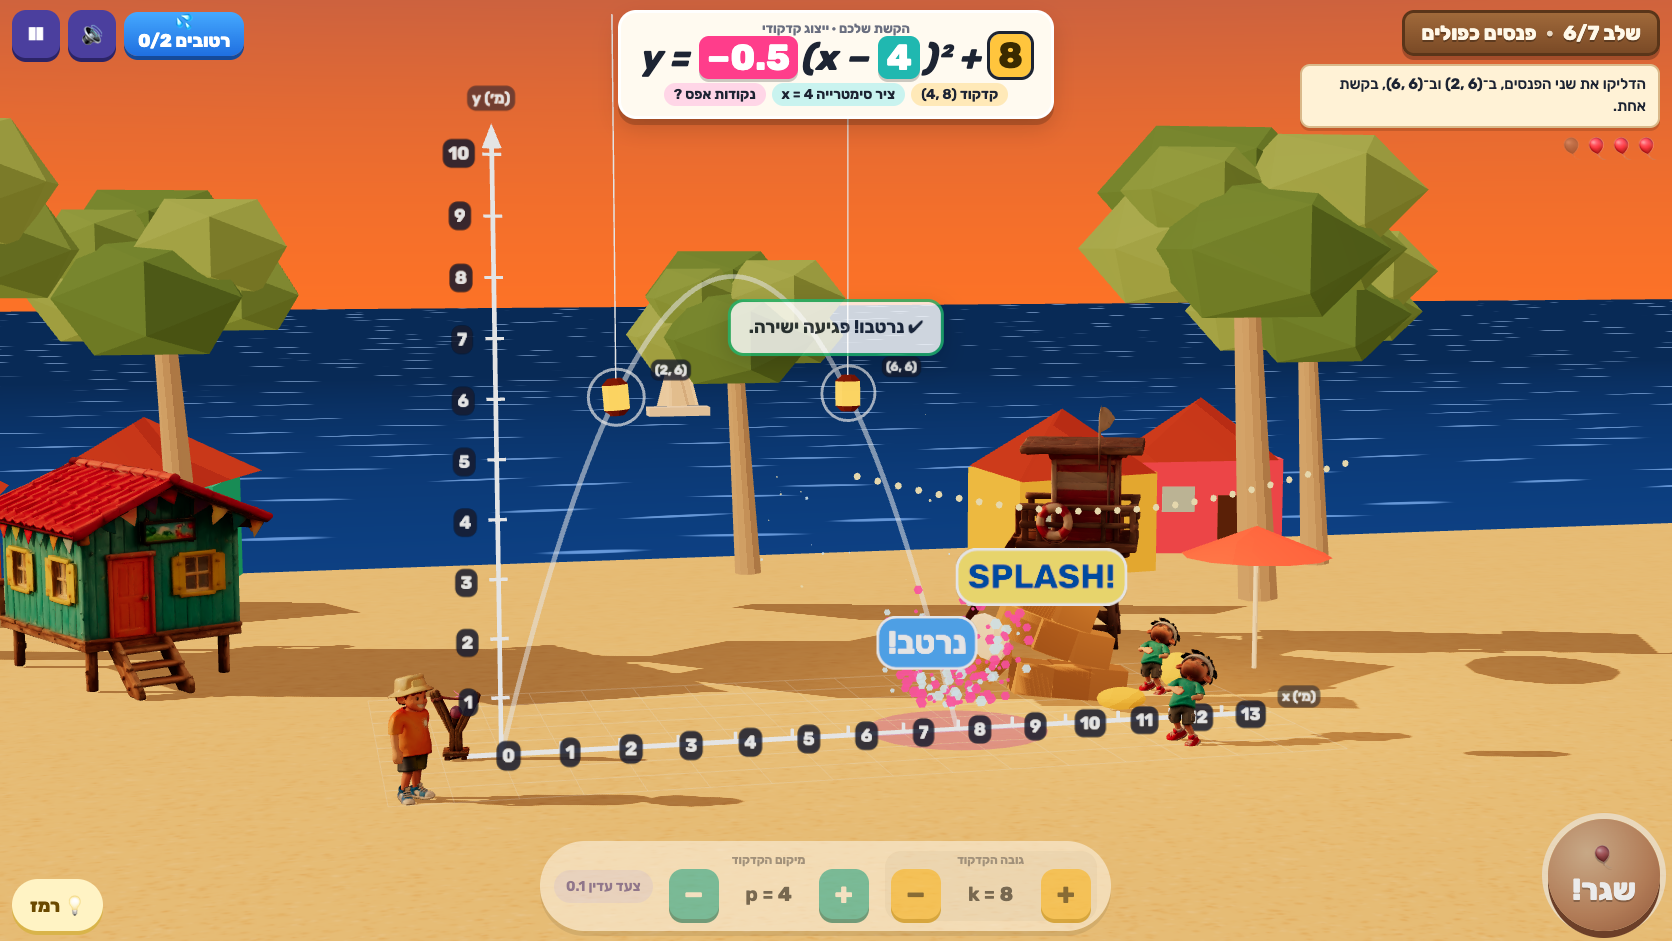
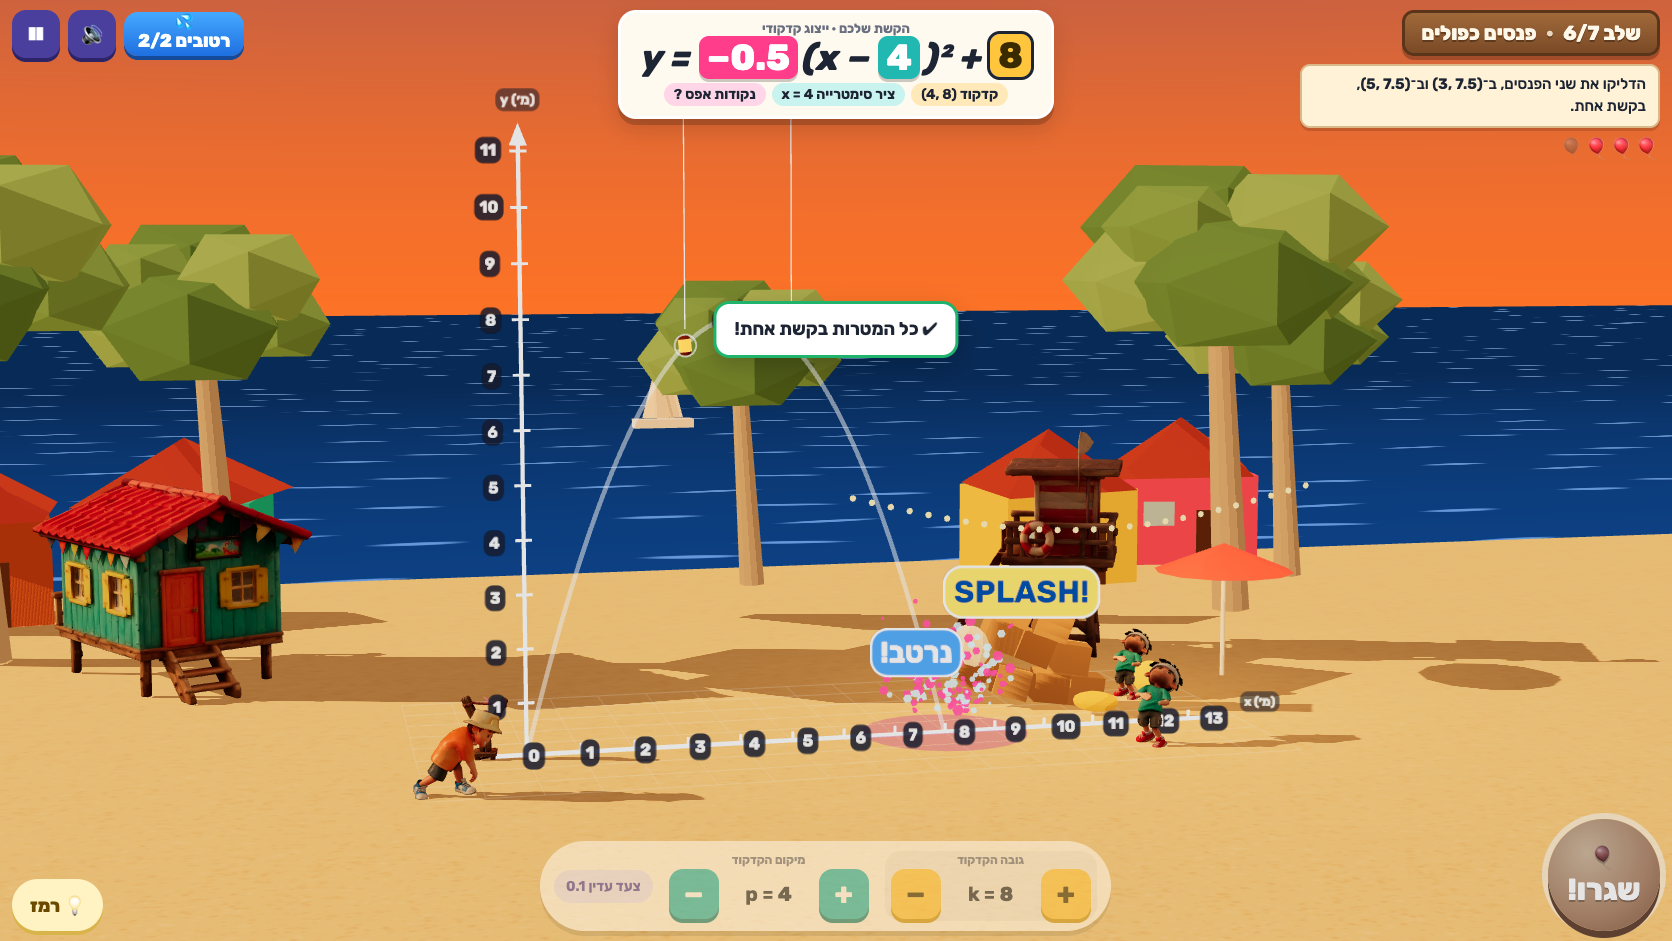
Playtest report, FPS probe, recaptured visuals, progress log; return-fire miss wording matches the landing

diff --git a/src/main.ts b/src/main.ts
@@ -326,7 +326,8 @@ function handle(ev: GameEvent): void {
     case 'soakedUs': {
       sfx.splash(true);
       sfx.laugh();
-      hero.play('soaked');
+      const close = Math.abs(ev.x - s.bucketX) <= 1.2;
+      hero.play(close ? 'soaked' : 'frustrated');
       rivals[0].play('laugh');
       const at = new THREE.Vector3(ev.x, 0.2, 0);
       fx.splash(at, '#3dd6ff', 110, 1);
@@ -335,7 +336,7 @@ function handle(ev: GameEvent): void {
       arcView.setRivalTrail(volleyPath());
       const v = level.volleys![s.volleyIndex];
       const eq = v.form === 'factored' ? formatFactoredForm(v.a, ...(zeros(volleyArc(v)) as [number, number])) : formatVertexForm(v);
-      hud.toast(`נרטבתם! {${eq}} נוחת ב־{x = ${fmt(ev.x)}}, והדלי היה ב־{x = ${fmt(s.bucketX)}}.`, 4.5, 'bad');
+      hud.toast(`${close ? 'נרטבתם!' : 'פספוס! החול שלנו נרטב.'} {${eq}} נוחת ב־{x = ${fmt(ev.x)}}, והדלי היה ב־{x = ${fmt(s.bucketX)}}. עכשיו זריקה חדשה.`, 4.5, 'bad');
       break;
     }
     case 'won':

diff --git a/PLAYTEST.md b/PLAYTEST.md
@@ -1,0 +1,32 @@
+# Playtest and verification — Splash Arc
+
+What was verified, how, and what wasn't. Automation proves the rules and flows work; it does not show that the game is fun or that students learn the quadratic function. That needs real students.
+
+## Automated tests (`npm test`, 27 passing)
+
+- **Arc math** (`tests/arc.test.ts`): `a = −k/p²` and landing `2p` from the origin; `a = (h − k)/p²` from a raised launcher; zeros symmetric about `x = p`; `a ≥ 0` never lands; a horizontal shift moves vertex and zeros together; Workbook-style formatting with real minus signs and school rounding.
+- **Every authored level** (`tests/levels.test.ts`): the exact set of winning vertices on the 0.5 m grid (L1 `p = 4, k ∈ {4.5, 5, 5.5}`; L2 `(5, 7)`; L3 `(2, 4)`; L5 only `p = 4.5`; L6 `(4, 8)`; L7 `(5, 9.5…13)`), the handoff's algebra (`y(2) = 0.75k`, `y(8) = 16k/25`, `y(3) = 21k/25`), fine-mode windows, and the advertised consequences (wall, net, branch, space, overshoot after the drift, "standing under the vertex" in return fire, the `(x + 1)` card).
+- **Eyeballing / constant strategies:** no single snapped vertex wins two authored levels; under 6 % of snapped vertices win any one level; neighbouring arcs pass visibly outside a lantern's hit radius; generated challenges always have 1–4 answers and "always k = 8" fails most of them.
+- **State machine** (`tests/game.test.ts`): snapping and clamping, miss → impact → aim with a balloon spent, first-try 3 stars at three different frame rates (timing independent of frame size), out of balloons → refill, hints mark attempts as hinted, pause freezes flight, the raft drift, return fire with a fresh volley after a miss, and restarts that don't erase misses or hints.
+
+## Real play
+
+- **Independent reviewer** (headless Playwright, real keys and a real mouse drag; logic stepped because the machine was overloaded): won every level, made recoverable mistakes on levels 1–6, used hints on 3 and 4, ran out of balloons on 7 and restarted. Findings and their fixes: [docs/MATH_REVIEW.md](docs/MATH_REVIEW.md).
+- **Crew lead in the built-in browser** at 1280×720: full win and wall splat on level 1, the return-fire miss and catch, the a > 0 and a = 0 messages on level 3, a lantern near-miss on level 6, hint bubble, title screen and level select, challenge mode. Phone portrait 375×812 and phone landscape 812×375 layouts checked by screenshot. Console clean once all models load.
+- **Visual captures** with real drags and keys at the mockups' framing: [docs/VISUAL_REVIEW.md](docs/VISUAL_REVIEW.md).
+- **Tripo models in gameplay:** camper and rival load with six clips each (throw, cheer, hit, jump, frustrated/laugh, idle) and play on game events; slingshot, lifeguard tower and cabin load as set pieces.
+
+## Performance (measured)
+
+- Headless Chrome, ANGLE Metal on an Apple M2 Max, 1280×720 at DPR 2, level 1: **60 fps** (vsync cap), ~212 draw calls, ~237k triangles (`scripts/fps.mjs`). Measured when the machine's load average was about 12.
+- Earlier, while other crews' browsers pushed the load average to 150–220, the browser pane ran at ~1.5 fps; that's the machine, not the game, but it means real-time feel was mostly judged through stepped captures.
+- Production build: `dist/` 8.3 MB; main JS 5.1 MB (1.9 MB gzipped), mostly Rapier's inlined WASM and Three.js; models 0.3–1.2 MB each.
+
+## Known limits
+
+- Not played by real students or on a real phone; touch was tested by emulation only.
+- No measured learning outcome. The learning log records first unaided attempts versus hinted ones, but nobody has analysed it.
+- Walls and nets are 3D panels turned about their exact x-line; they still look somewhat wider than the rule they represent.
+- Mobile portrait shows a small field; the title screen suggests rotating.
+- The bundle is large for a phone on a slow connection (Rapier WASM is inlined).
+- Not deployed; the public GitHub repo could not be created from this session (see progress.md).

diff --git a/docs/VISUAL_REVIEW.md b/docs/VISUAL_REVIEW.md
@@ -1,13 +1,13 @@
 # Visual review — mockups vs real gameplay
 
-Targets: ChatGPT gpt-image mockups in [`visual-targets/`](visual-targets/) (prompts in `PROMPTS.md`). They are design targets, not evidence. Actual: real gameplay captured by [`scripts/shots.mjs`](../scripts/shots.mjs) at the mockups' 1672×941 framing, in Chrome (headless, Playwright), with **real inputs**: mouse drags on the canvas to move the vertex handle and key presses (Space, arrows) to fire and move the bucket. The script only reads `render_game_to_text()` and projects a world point to find where the handle is on screen; it never injects a result. Captures are in [`captures/`](captures/) with the state log in `capture-log.json`.
+Targets: ChatGPT gpt-image mockups in [`visual-targets/`](visual-targets/) (prompts in `PROMPTS.md`). They are design targets, not evidence. Actual: real gameplay captured by [`scripts/shots.mjs`](../scripts/shots.mjs) at the mockups' 1672×941 framing, in Chrome (headless, Playwright), with **real inputs**: mouse drags on the canvas to move the vertex handle and key presses (Space, arrows) to fire and move the bucket. The script only reads `render_game_to_text()` and projects a world point to find where the handle is on screen; it never injects a result. Captures are in [`captures/`](captures/) with the state log in `capture-log.json`. Recaptured on 26 Oct after the math-review fixes.
 
 | Target | Actual | State at capture |
 |---|---|---|
 | ![](visual-targets/01-first-30s.png) | ![](captures/01-first-30s.png) | Level 1 after dragging the vertex from (4, 2) to (4, 5): `y = −0.31(x − 4)² + 5`, zeros 0 and 8 |
-| ![](visual-targets/02-impact.png) | ![](captures/02-impact.png) | Level 6, vertex (4, 8): both lanterns swiped, splash at x = 8, fort blocks flying |
+| ![](visual-targets/02-impact.png) | ![](captures/02-impact.png) | Level 6, vertex (4, 8): both lanterns at (3, 7.5) and (5, 7.5) lit, splash at x = 8, fort blocks flying, counter 2/2 |
 | ![](visual-targets/03-consequence.png) | ![](captures/03-consequence-wall.png) | Level 1 default arc splats on the wall at `y(2) = 1.5` |
-| (same target, return-fire half) | ![](captures/03b-return-fire.png) | Level 4, bucket at 4.5 while `y = −0.5(x − 4)² + 8` lands at 8: our camper is soaked |
+| (same target, return-fire half) | ![](captures/03b-return-fire.png) | Level 4, bucket at 4.5 while `y = −0.5(x − 4)² + 8` lands at 8: a miss with the real landing shown; a fresh volley follows |
 | ![](visual-targets/04-night-raid.png) | ![](captures/04-night-raid.png) | Level 7 aimed at (5, 11), no preview, no grid numbers |
 
 ## What matches
@@ -31,3 +31,10 @@ Targets: ChatGPT gpt-image mockups in [`visual-targets/`](visual-targets/) (prom
 ## Other sizes checked
 
 In the built-in browser: 1280×720, phone portrait 375×812 (HUD stacks, field smaller, a "rotate for a bigger field" tip on the title screen) and phone landscape 812×375 (compact HUD). Console clean (no errors) once all Tripo models are present.
+
+## Changes made because of this comparison
+
+- Moved the fire button to the bottom-right and split the nudge bar into k (yellow) and p (teal) groups, as in the mockups.
+- The soaked counter now counts up during the shot (mockup 2 shows 2/3 mid-impact).
+- Turned walls and nets about their exact x-line so they read as solid panels from the side camera (first pass), then narrowed them after the math review found they looked wider than the rule.
+- Enlarged the campers and moved them toward the camera; added Tripo clips (throw, cheer, hit, jump, frustrated, laugh).

diff --git a/progress.md b/progress.md
@@ -12,9 +12,12 @@ Original prompt: build the web-based 3D educational game Splash Arc (קשת המ
 - Tests: 26 passing (`npm test`): arc math, every authored level's exact winning set, the advertised consequences, eyeballing/constant-strategy checks, generator, state machine (snapping, misses, stars, out-of-balloons, hints, pause, drift, return fire).
 - Browser checks in the built-in browser at 1280×720, 375×812 and 812×375; console clean. The machine was extremely loaded by other crews' browsers (load average 150–220, ~1.5 fps in the pane), so flights were checked with `advanceTime` and any FPS measured here is not representative.
 
+- Tripo helper finished: camper and rival rigged (Humanoid + Mixamo) with six clips each, bundled per GLB; all five models meshopt-compressed with WebP textures (0.3–1.2 MB). Clips wired to events: throw on launch, cheer on a win or catch, hit (soaked) when splashed, frustrated on our miss, laugh for the rival, jump for "flew to space". 220 Tripo credits (6 generations, 2 rigs); details in ASSETS.md.
+- Independent math review (docs/MATH_REVIEW.md) found 3 blockers and 10 should-fixes; all blockers and should-fixes are fixed except that walls/nets are improved rather than perfect (see the resolution table). Level changes: L4 gets a fourth `(x + 1)(x − 7)` card and fresh volleys after a miss; L5 target moved to 11 and starts on the drift trap; L6 lanterns moved to (3, 7.5)/(5, 7.5) with true-distance hits; L7 fort box lowered.
+- Counselor onboarding line on level 1 and return fire; challenge raids with exact-fraction hints; captures redone; PLAYTEST.md written. 27 tests pass. Headless Chrome measured 60 fps at 1280×720 DPR 2 (M2 Max, load ≈ 12).
+
 ## Open items / next
 
-- Push to GitHub once the user approves creating the public repo.
-- Tripo character clips: integrate throw/soaked/dodge once the helper's rig export lands (idle and cheer are in the current GLB; procedural accents cover the rest).
-- Math reviewer findings → fixes (see docs/MATH_REVIEW.md).
-- Visual review captures vs mockups (docs/VISUAL_REVIEW.md).
+- Push to GitHub once the user approves creating the public repo `AceDZN/splash-arc` (blocked in this session by the permission classifier).
+- Real students on real phones: fun and learning are unverified.
+- Optional: lazy-load Rapier to cut the first download; a teacher view of the learning log; a dedicated stretch (`a`) control.
